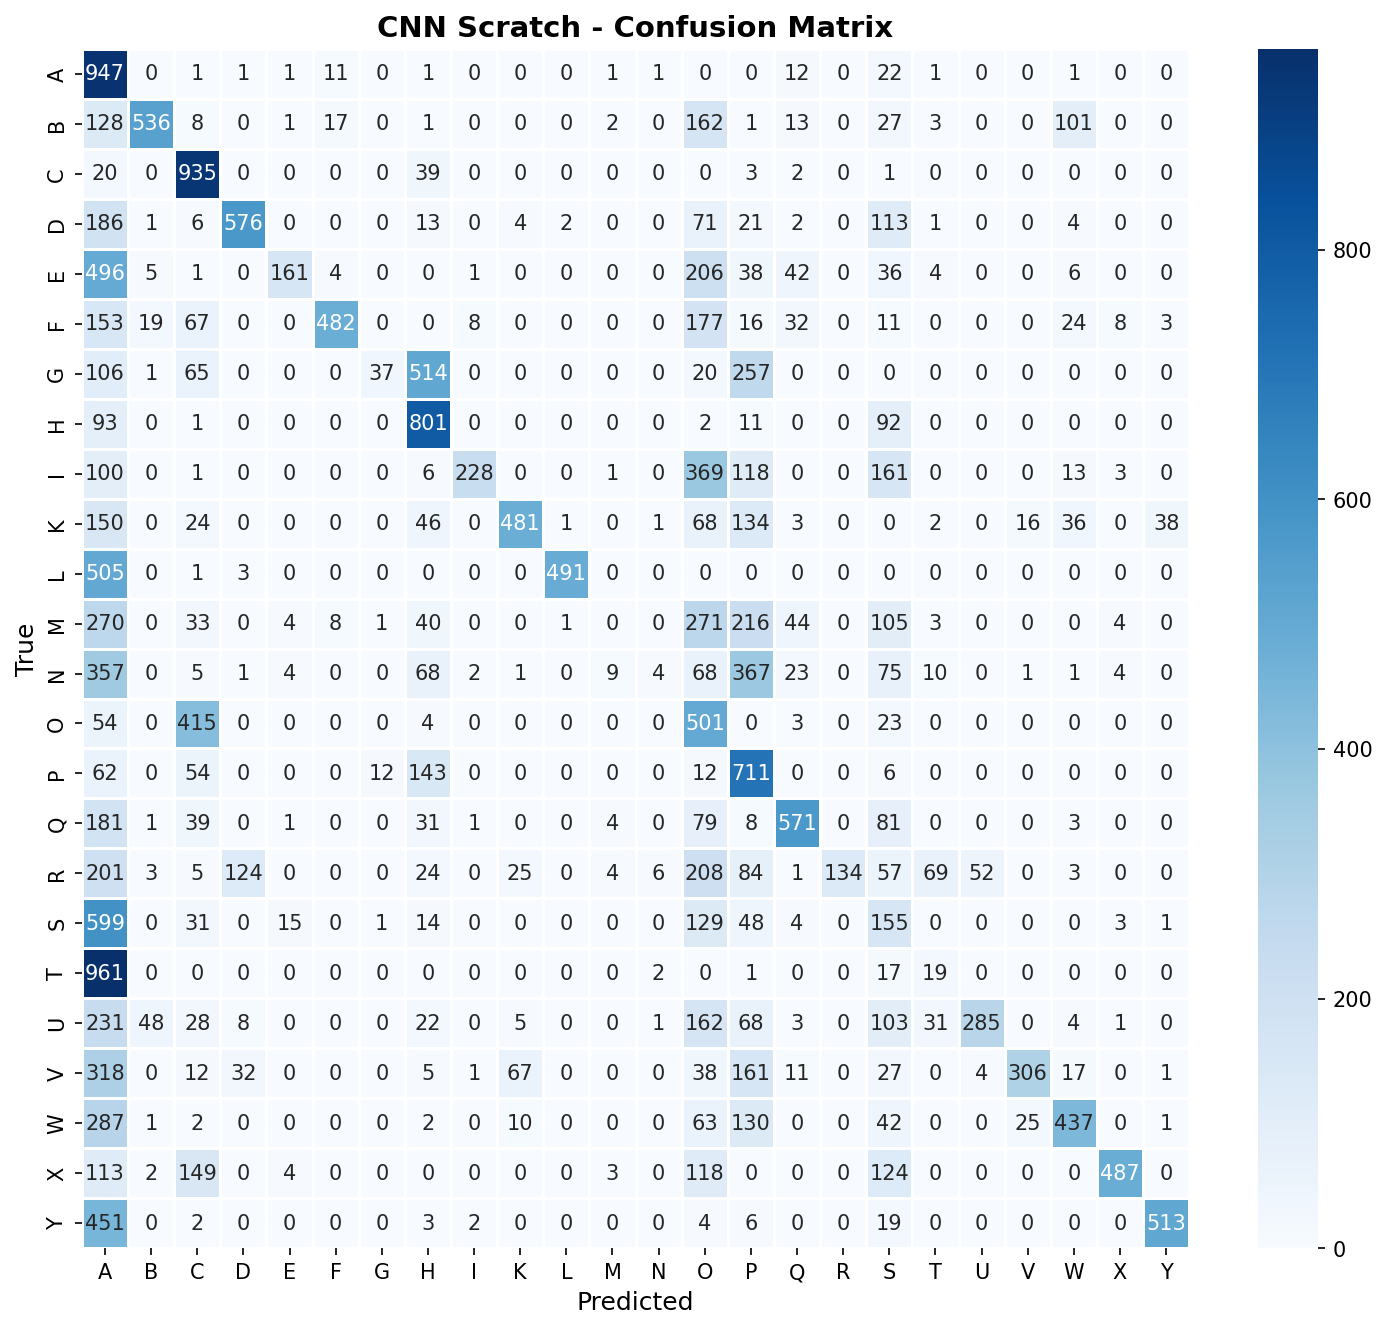
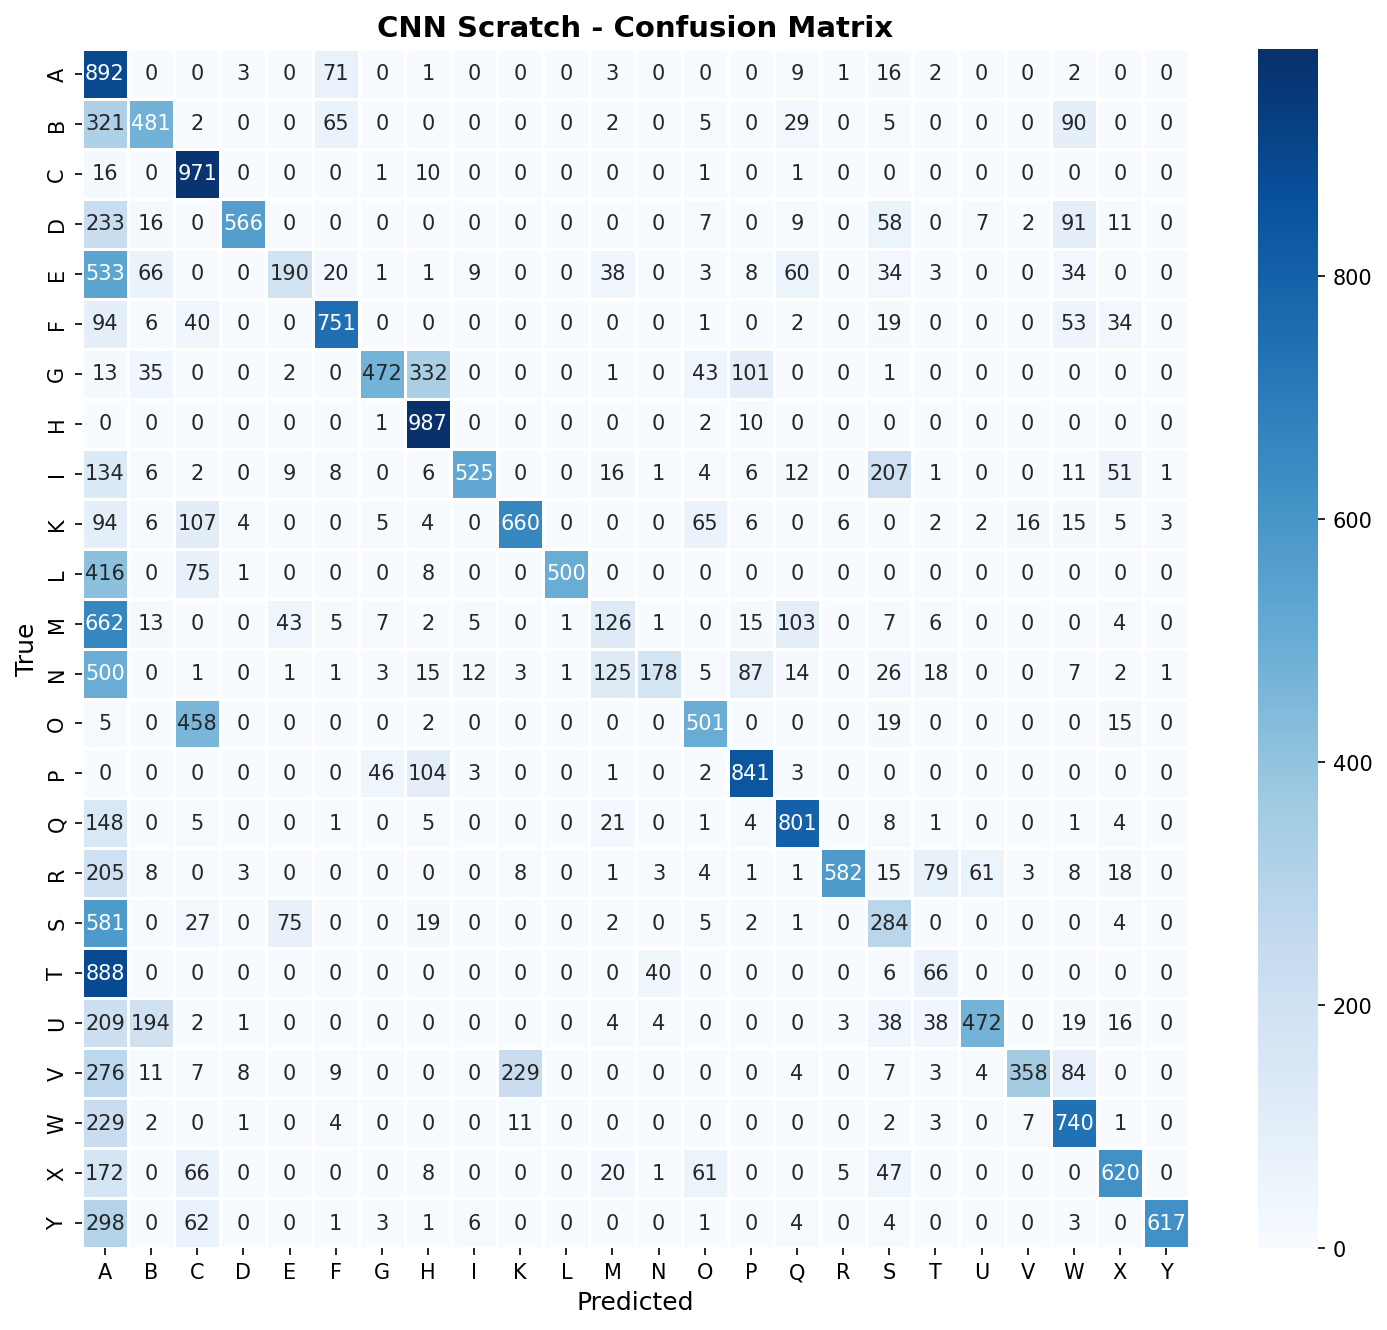
analisis error

diff --git a/presentation/error_analysis.md b/presentation/error_analysis.md
@@ -1,6 +1,6 @@
 # Analisis de errores - CNN Scratch
 
-**Test accuracy global:** 0.4083 (40.8%)
+**Test accuracy global:** 0.5492 (54.9%)
 **Numero de clases:** 24
 **Total muestras test:** 24000
 
@@ -8,26 +8,26 @@
 
 | # | True | Predicted | Errores | Notas |
 |---|------|-----------|---------|-------|
-| 1 | **T** | **A** | 961 |  |
-| 2 | **S** | **A** | 599 | Puno cerrado, diferencia sutil del pulgar |
-| 3 | **G** | **H** | 514 |  |
-| 4 | **L** | **A** | 505 |  |
-| 5 | **E** | **A** | 496 |  |
-| 6 | **Y** | **A** | 451 |  |
-| 7 | **O** | **C** | 415 |  |
-| 8 | **I** | **O** | 369 |  |
-| 9 | **N** | **P** | 367 |  |
-| 10 | **N** | **A** | 357 |  |
+| 1 | **T** | **A** | 888 |  |
+| 2 | **M** | **A** | 662 |  |
+| 3 | **S** | **A** | 581 | Puno cerrado, diferencia sutil del pulgar |
+| 4 | **E** | **A** | 533 |  |
+| 5 | **N** | **A** | 500 |  |
+| 6 | **O** | **C** | 458 |  |
+| 7 | **L** | **A** | 416 |  |
+| 8 | **G** | **H** | 332 |  |
+| 9 | **B** | **A** | 321 |  |
+| 10 | **Y** | **A** | 298 |  |
 
 ## Clases con peor F1-score
 
 | Clase | F1 | Precision | Recall | Support |
 |-------|----|-----------|--------|---------|
-| **M** | 0.000 | 0.000 | 0.000 | 1000 |
-| **N** | 0.008 | 0.267 | 0.004 | 1000 |
-| **T** | 0.033 | 0.133 | 0.019 | 1000 |
-| **G** | 0.070 | 0.725 | 0.037 | 1000 |
-| **S** | 0.135 | 0.120 | 0.155 | 1000 |
+| **T** | 0.108 | 0.297 | 0.066 | 1000 |
+| **M** | 0.185 | 0.350 | 0.126 | 1000 |
+| **A** | 0.225 | 0.129 | 0.892 | 1000 |
+| **E** | 0.288 | 0.594 | 0.190 | 1000 |
+| **N** | 0.290 | 0.781 | 0.178 | 1000 |
 
 ## Interpretacion
 